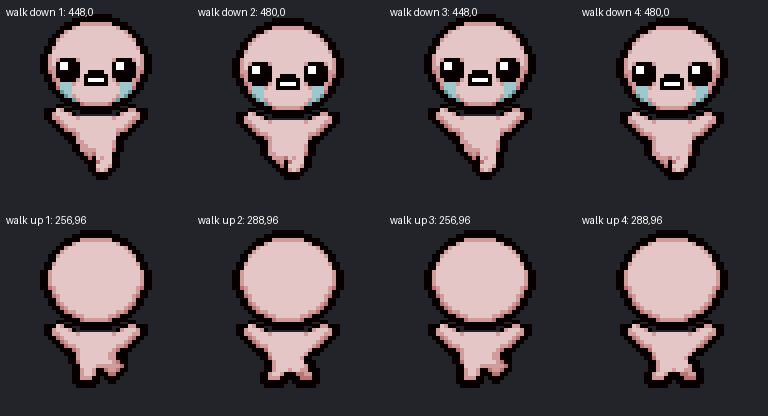
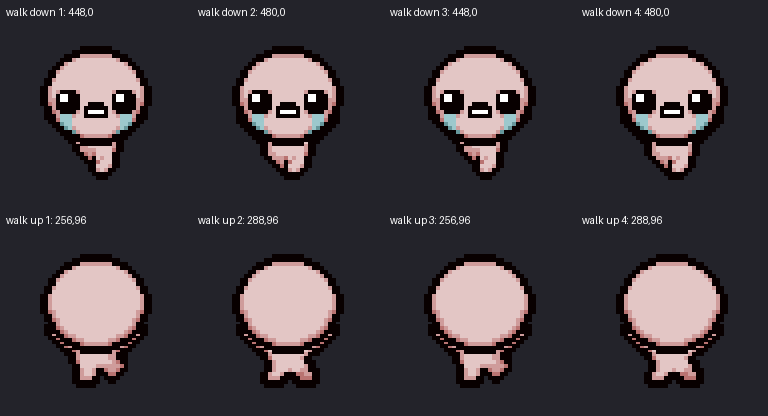
Normalize Isaac movement sprite scale

diff --git a/scripts/generate_assets.py b/scripts/generate_assets.py
@@ -18,6 +18,8 @@ CELL_W, CELL_H = 192, 208
 ATLAS_SIZE = (CELL_W * 8, CELL_H * 11)
 VERTICAL_WALK_COLUMNS = 4
 VERTICAL_WALK_ROWS = 2
+WALK_TARGET_WIDTH = 112
+WALK_HEAD_TOP = 46
 
 
 def nearest(image: Image.Image, scale: int) -> Image.Image:
@@ -60,18 +62,46 @@ def connected_components(image: Image.Image) -> int:
     return components
 
 
-def make_direction_cell(head: Image.Image, body: Image.Image) -> Image.Image:
+def make_direction_cell(
+    head: Image.Image,
+    body: Image.Image,
+    fixed_head_top: int | None = None,
+) -> Image.Image:
     canvas = Image.new("RGBA", (CELL_W, CELL_H), (0, 0, 0, 0))
     scaled_body = nearest(body, 4)
     scaled_head = nearest(head, 4)
     body_x = (CELL_W - scaled_body.width) // 2
     body_y = CELL_H - scaled_body.height - 28
-    # A deliberate eight-pixel overlap reconnects the original head and lower-body components.
     head_x = (CELL_W - scaled_head.width) // 2
-    head_y = body_y - scaled_head.height + 10
+    # Normal direction poses use a small overlap. Vertical walking bodies include more torso,
+    # so their head is registered to the shared top edge and the torso sits behind it.
+    head_y = fixed_head_top if fixed_head_top is not None else body_y - scaled_head.height + 10
     canvas.alpha_composite(scaled_body, (body_x, body_y))
     canvas.alpha_composite(scaled_head, (head_x, head_y))
     return canvas
+
+
+def normalize_walking_row(atlas: Image.Image, row: int, frame_count: int) -> list[Image.Image]:
+    """Bring legacy three-pixel walking art up to the four-pixel idle/look scale."""
+    normalized: list[Image.Image] = []
+    for column in range(frame_count):
+        left = column * CELL_W
+        top = row * CELL_H
+        cell = atlas.crop((left, top, left + CELL_W, top + CELL_H))
+        box = cell.getbbox()
+        if not box:
+            raise SystemExit(f"walking row {row} frame {column} is empty")
+        sprite = cell.crop(box)
+        target_height = round(sprite.height * WALK_TARGET_WIDTH / sprite.width)
+        resized = sprite.resize((WALK_TARGET_WIDTH, target_height), Image.Resampling.NEAREST)
+        source_center_x = (box[0] + box[2]) / 2
+        target_x = round(source_center_x - WALK_TARGET_WIDTH / 2)
+        target_y = box[3] - target_height
+        output = Image.new("RGBA", (CELL_W, CELL_H), (0, 0, 0, 0))
+        output.alpha_composite(resized, (target_x, target_y))
+        atlas.paste(output, (left, top))
+        normalized.append(output)
+    return normalized
 
 
 def make_icons(base: Image.Image) -> None:
@@ -149,8 +179,14 @@ def make_vertical_walking_atlas(source_sheet: Image.Image) -> dict[str, list[Ima
         "up": source_head(source_sheet, 128),        # normal back of head
     }
     rows = {
-        direction: [make_direction_cell(heads[direction], source_body(source_sheet, x, y))
-                    for x, y in cells]
+        direction: [
+            make_direction_cell(
+                heads[direction],
+                source_body(source_sheet, x, y),
+                fixed_head_top=WALK_HEAD_TOP,
+            )
+            for x, y in cells
+        ]
         for direction, cells in source_cells.items()
     }
 
@@ -178,6 +214,36 @@ def make_vertical_walking_atlas(source_sheet: Image.Image) -> dict[str, list[Ima
     return rows
 
 
+def make_scale_contact_sheet(atlas: Image.Image, vertical_atlas: Image.Image) -> None:
+    frames = [
+        ("idle", atlas.crop((0, 0, CELL_W, CELL_H))),
+        ("static right", atlas.crop((4 * CELL_W, 9 * CELL_H, 5 * CELL_W, 10 * CELL_H))),
+        ("static down", atlas.crop((0, 10 * CELL_H, CELL_W, 11 * CELL_H))),
+        ("static up", atlas.crop((0, 9 * CELL_H, CELL_W, 10 * CELL_H))),
+        ("walk right", atlas.crop((0, CELL_H, CELL_W, 2 * CELL_H))),
+        ("walk left", atlas.crop((0, 2 * CELL_H, CELL_W, 3 * CELL_H))),
+        ("walk down", vertical_atlas.crop((0, 0, CELL_W, CELL_H))),
+        ("walk up", vertical_atlas.crop((0, CELL_H, CELL_W, 2 * CELL_H))),
+    ]
+    sheet = Image.new("RGBA", (CELL_W * 4, CELL_H * 2), (35, 35, 42, 255))
+    draw = ImageDraw.Draw(sheet)
+    for index, (label, cell) in enumerate(frames):
+        row, column = divmod(index, 4)
+        x = column * CELL_W
+        y = row * CELL_H
+        sheet.alpha_composite(cell, (x, y))
+        box = cell.getbbox()
+        if box:
+            width = box[2] - box[0]
+            height = box[3] - box[1]
+            draw.rectangle(
+                (x + box[0], y + box[1], x + box[2] - 1, y + box[3] - 1),
+                outline=(92, 220, 126, 255),
+            )
+            draw.text((x + 6, y + 6), f"{label} {width}x{height}", fill=(255, 255, 255, 255))
+    sheet.save(QA / "scale-contact-sheet.png")
+
+
 def main() -> None:
     RESOURCES.mkdir(parents=True, exist_ok=True)
     QA.mkdir(parents=True, exist_ok=True)
@@ -186,6 +252,11 @@ def main() -> None:
     atlas = Image.open(RESOURCES / "spritesheet-source.webp").convert("RGBA")
     if atlas.size != ATLAS_SIZE:
         raise SystemExit(f"unexpected atlas dimensions: {atlas.size}")
+
+    horizontal_walking_cells = {
+        "right": normalize_walking_row(atlas, 1, 8),
+        "left": normalize_walking_row(atlas, 2, 8),
+    }
 
     # Eight stable Isaac look poses, duplicated into the 16 directional slots.
     # The source atlas contains the previous approximate look rows. Clear them completely before
@@ -237,11 +308,27 @@ def main() -> None:
         ]
         for row, direction in enumerate(("down", "up"))
     }
+    final_horizontal_walking_cells = {
+        direction: [
+            atlas.crop(
+                (column * CELL_W, row * CELL_H, (column + 1) * CELL_W, (row + 1) * CELL_H)
+            )
+            for column in range(8)
+        ]
+        for row, direction in ((1, "right"), (2, "left"))
+    }
+    make_scale_contact_sheet(atlas, final_vertical_walking_atlas)
+    idle_bbox = atlas.crop((0, 0, CELL_W, CELL_H)).getbbox()
     validation = {
         "ok": True,
         "atlas": "Resources/spritesheet.webp",
         "size": list(atlas.size),
         "source": ["Assets/Source/isaac-character-sheet.png", "Assets/Source/isaac-appearance.png"],
+        "scale_consistency": {
+            "target_visible_width": WALK_TARGET_WIDTH,
+            "idle_bbox": list(idle_bbox or (0, 0, 0, 0)),
+            "contact_sheet": "qa/scale-contact-sheet.png",
+        },
         "direction_cells": [
             {
                 "index": i,
@@ -265,6 +352,23 @@ def main() -> None:
                 }
                 for index, cell in enumerate(final_shooting_cells)
             ],
+        },
+        "horizontal_walking": {
+            "target_visible_width": WALK_TARGET_WIDTH,
+            "cells": {
+                direction: [
+                    {
+                        "index": index,
+                        "components": connected_components(cell),
+                        "bbox": list(cell.getbbox() or (0, 0, 0, 0)),
+                        "matches_normalized_cell": (
+                            cell.tobytes() == horizontal_walking_cells[direction][index].tobytes()
+                        ),
+                    }
+                    for index, cell in enumerate(final_horizontal_walking_cells[direction])
+                ]
+                for direction in ("right", "left")
+            },
         },
         "vertical_walking_atlas": {
             "path": "Resources/walking-vertical-atlas.webp",
@@ -292,16 +396,35 @@ def main() -> None:
         item["components"] == 1 and item["matches_composed_cell"]
         for item in validation["direction_cells"]
     ) and all(
+        item["bbox"][2] - item["bbox"][0] == WALK_TARGET_WIDTH
+        and item["bbox"][3] == 180
+        for item in validation["direction_cells"]
+    ) and all(
         item["components"] == 1 and item["matches_composed_cell"]
         for item in validation["shooting_atlas"]["cells"]
+    ) and all(
+        item["components"] == 1
+        and item["matches_normalized_cell"]
+        and item["bbox"][2] - item["bbox"][0] == WALK_TARGET_WIDTH
+        and item["bbox"][3] - item["bbox"][1] == 132
+        and 180 <= item["bbox"][3] <= 182
+        for direction in ("right", "left")
+        for item in validation["horizontal_walking"]["cells"][direction]
     ) and all(
         item["components"] == 1 and item["matches_composed_cell"]
         for direction in ("down", "up")
         for item in validation["vertical_walking_atlas"]["cells"][direction]
-    )
+    ) and all(
+        item["bbox"][0] == 40
+        and item["bbox"][1] == WALK_HEAD_TOP
+        and item["bbox"][2] == 152
+        and item["bbox"][3] == 180
+        for direction in ("down", "up")
+        for item in validation["vertical_walking_atlas"]["cells"][direction]
+    ) and idle_bbox is not None and idle_bbox[2] - idle_bbox[0] == WALK_TARGET_WIDTH
     (QA / "assets-validation.json").write_text(json.dumps(validation, indent=2) + "\n")
     if not validation["ok"]:
-        raise SystemExit("direction asset validation failed")
+        raise SystemExit("asset validation failed")
 
 
 if __name__ == "__main__":
